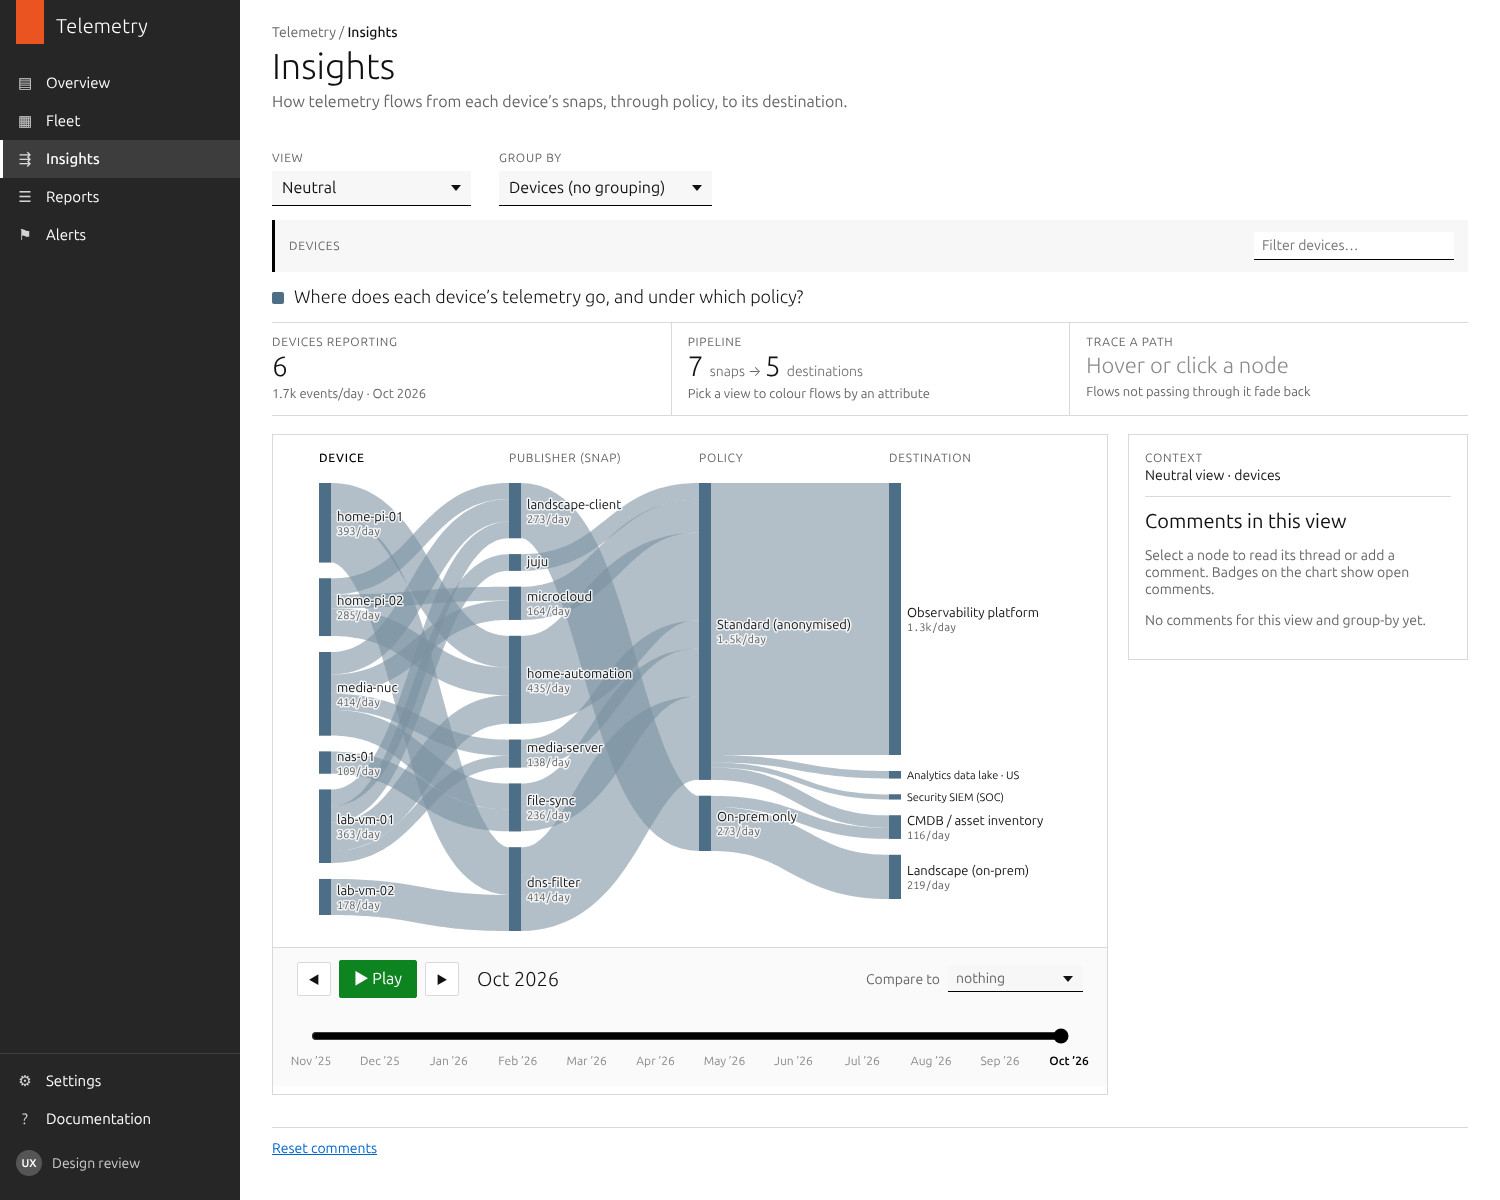
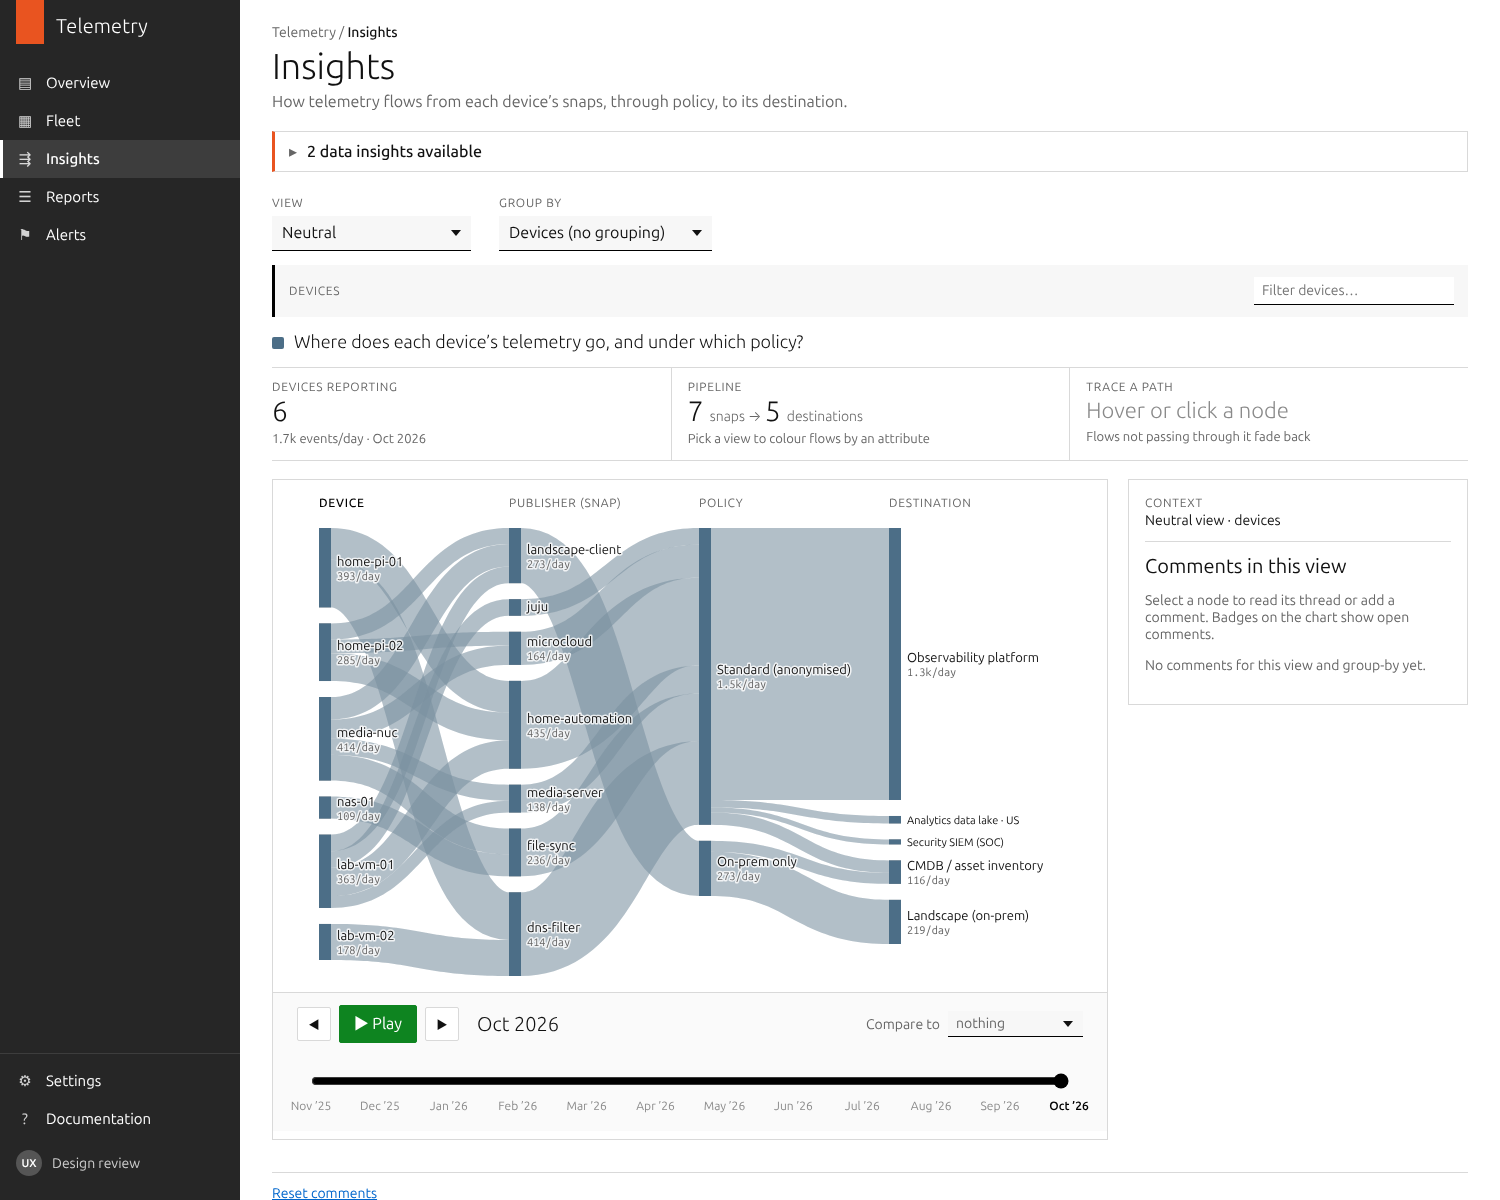
Add reporting status (pipe health) measured at the endpoint
New reported attribute, view and group-by: Reporting / Delayed /
Partially silent / Silent (online in Landscape) / Offline / Silent
(cause unknown). It is measured at the telemetry endpoint per device and
snap, with Landscape's online signal used to suggest a cause. Device
tooltips show the status and a cause hint, the top 20 ranks worst first,
the view has a 'not reporting normally' KPI with trend, and a new SRE
insight summarises devices whose telemetry isn't getting through.

The latest month is scripted so each status has an example, and factory
devices are partially silent (opcua-connector) during the Jun/Jul
incident. Generated from its own RNG: health, flows and volumes are
unchanged. snapd on-device buffering is deliberately not modelled.

Claude-Session: https://claude.ai/code/session_0156BKrAD5wHGfcWHmuamSMf

diff --git a/js/app.js b/js/app.js
@@ -60,11 +60,12 @@
   const ATTENTION = {
     health: { label: 'unhealthy devices (health 50 or below)', test: function (a) { return a.healthScore <= 50; } },
     lifecycle: { label: 'devices at lifecycle risk', test: function (a) { return a.lifecycle === 'software' || a.lifecycle === 'ending'; } },
-    energy: { label: 'idle devices still powered on', test: function (a) { return a.idle; } }
+    energy: { label: 'idle devices still powered on', test: function (a) { return a.idle; } },
+    reporting: { label: 'devices not reporting normally', test: function (a) { return a.reporting !== 'reporting'; } }
   };
   const LC_RISK = { software: 0, ending: 1, refresh: 2, service: 3, virtual: 4 };
   function rankLabel() {
-    return { health: 'lowest health', lifecycle: 'lifecycle risk', energy: 'idle first, then energy use' }[view().attr] || 'telemetry volume';
+    return { health: 'lowest health', lifecycle: 'lifecycle risk', energy: 'idle first, then energy use', reporting: 'reporting problems' }[view().attr] || 'telemetry volume';
   }
   // per-device summary for the latest month, honouring filters (ranking is frozen to this month,
   // so the top N doesn't reshuffle while scrubbing the timeline)
@@ -92,6 +93,7 @@
         if (v === 'health') return a.healthScore;
         if (v === 'lifecycle') return LC_RISK[a.lifecycle] * 1e9 - d.vol;
         if (v === 'energy') return (a.idle ? 0 : 1e9) - (a.energyKwh || 0);
+        if (v === 'reporting') return -TL.ATTRIBUTES.reporting.index[a.reporting] * 1e9 - d.vol; // worst status first
         return -d.vol;
       };
       ids.sort(function (x, y) { return score(sum[x]) - score(sum[y]); });
@@ -377,6 +379,12 @@
       Object.keys(agg.nodes).forEach(function (k) { const n = agg.nodes[k]; if (n.dim === 'publisher') pubs[k] = 1; if (n.dim === 'destination') dests[k] = 1; });
       items.push(kpi('Pipeline', Object.keys(pubs).length + ' <span class="p-kpi__unit">snaps → </span>' + Object.keys(dests).length + ' <span class="p-kpi__unit">destinations</span>',
         'Pick a view to colour flows by an attribute'));
+    } else if (view().attr === 'reporting' && !iso) {
+      const bad = counts._total - (counts.reporting || 0);
+      items.push(kpi('<span class="dot" style="background:' + TL.valueOf('reporting', 'silent').color + '"></span>Not reporting normally',
+        bad + ' <span class="p-kpi__unit">device' + (bad === 1 ? '' : 's') + ' of ' + counts._total.toLocaleString('en-GB') + '</span>',
+        '<span class="p-dist">' + bar + '</span>',
+        t.time ? sparkline(TL.MONTHS.map(function (_, m) { const c = deviceCounts(m, 'reporting'); return c._total - (c.reporting || 0); }), TL.valueOf('reporting', 'silent').color) : ''));
     } else if (view().attr === 'lifecycle' && !iso) {
       // the actionable number: devices that would be replaced for software reasons alone
       const sw = counts.software || 0, end = counts.ending || 0;
@@ -649,6 +657,22 @@
       return '<div><span class="dot" style="background:' + (v.color || '#bbb') + '"></span>' + esc(v.label) + ' · ' + S.pct(x, total) + '%</div>';
     }).join('');
   }
+  // Reporting status measured at the endpoint, with a cause hint from the Landscape cross-check
+  function hoursText(h) { return h >= 48 ? Math.round(h / 24) + ' days' : h + ' h'; }
+  function reportHtml(a) {
+    const info = a.reportInfo || { status: 'reporting', lastMin: 2 }, v = TL.valueOf('reporting', info.status);
+    const snap = info.snap ? TL.valueOf('publisher', info.snap).label : '';
+    const hint = {
+      reporting: 'Last received ' + (info.lastMin || 2) + ' min ago',
+      delayed: 'Arriving about ' + info.lagMin + ' min late: data is getting through, but something along the path is holding it up.',
+      partial: snap + ' silent for ' + hoursText(info.hours) + (info.cause ? ' (' + info.cause + ')' : '') + ' while the device’s other snaps report. Check that snap.',
+      silent: 'Silent for ' + hoursText(info.hours) + '. Landscape reports it online, so check snapd or the network path to the endpoint.',
+      offline: 'Offline for ' + hoursText(info.hours) + '. Landscape reports it offline: power or connectivity.',
+      unknown: 'Silent for ' + hoursText(info.hours) + '. Cause unknown: no landscape-client to cross-check.'
+    }[info.status];
+    return '<div class="tooltip__report"><span class="dot" style="background:' + v.color + '"></span><strong>' + esc(v.label) + '</strong>' +
+      '<span class="tooltip__reporthint">' + esc(hint) + '</span></div>';
+  }
   // Sustainability section of a device tooltip: lifecycle, then energy
   function sustainHtml(s) {
     const open = state.sustainOpen != null ? state.sustainOpen : (view().attr === 'lifecycle' || view().attr === 'energy');
@@ -692,7 +716,8 @@
       const d = TL.deviceAt(n.val, periodIndex());
       const a = d.attrs;
       const band = TL.valueOf('health', a.health);
-      body = '<div class="tooltip__health"><span class="dot" style="background:' + band.color + '"></span>Health <strong>' + a.healthScore + '</strong> <span class="tooltip__band">(' + band.label + ')</span></div>';
+      body = '<div class="tooltip__health"><span class="dot" style="background:' + band.color + '"></span>Health <strong>' + a.healthScore + '</strong> <span class="tooltip__band">(' + band.label + ')</span></div>' +
+        reportHtml(a);
       if (view().attr === 'health') {
         body += '<dl class="tooltip__parts">' + TL.HEALTH_COMPONENTS.map(function (c) {
           const v = Math.round(a.healthParts[c.id]);
@@ -749,6 +774,17 @@
     if (pay.length) out.push({ id: 'payment', audience: 'Compliance', title: 'Payment telemetry bypasses residency',
       text: n(nDev(pay)) + ' EU/UK devices send ' + fmt(sumOf(pay)) + ' events/day of payment-vault telemetry to the US data lake: rule R2 matches before the residency rules (R4, R5).',
       show: { view: 'sovereignty', groupBy: 'sovereignty', select: 'destination:lake-us' } });
+    // pipe health: telemetry not getting through (measured at the endpoint)
+    const stat = {}; A.forEach(function (a) { stat[a.reporting] = (stat[a.reporting] || 0) + 1; });
+    const notOk = A.length - (stat.reporting || 0);
+    if (notOk) {
+      const order = ['silent', 'offline', 'unknown', 'partial', 'delayed'], phrase = {
+        silent: 'silent while online in Landscape', offline: 'offline', unknown: 'silent (cause unknown)', partial: 'partially silent', delayed: 'delayed' };
+      const first = order.filter(function (k) { return stat[k]; })[0];
+      out.push({ id: 'reporting', audience: 'SRE', title: 'Telemetry isn’t getting through from ' + n(notOk) + ' device' + (notOk === 1 ? '' : 's'),
+        text: order.filter(function (k) { return stat[k]; }).map(function (k) { return n(stat[k]) + ' ' + phrase[k]; }).join(', ') + '.',
+        show: { view: 'reporting', groupBy: 'reporting', select: 'reporting:' + first } });
+    }
     // 3. Juju 2.9 health
     const j29 = A.filter(function (a) { return a.juju === '2.9'; }), rest = A.filter(function (a) { return a.juju !== '2.9'; });
     const avg = function (xs) { return xs.length ? Math.round(xs.reduce(function (p, a) { return p + a.healthScore; }, 0) / xs.length) : 0; };

diff --git a/js/data.js b/js/data.js
@@ -142,6 +142,15 @@ window.TL = window.TL || {};
   ATTRIBUTES.neutral = { label: 'Neutral', short: 'Neutral', values: [{ id: 'all', label: 'All telemetry', color: '#4C6E87' }] };
   ATTRIBUTES.health = { label: 'Health', short: 'Health', ordinal: true, values: HEALTH_BANDS };
   // Sustainability attributes (colours from the same palette family as health)
+  // Reporting status: measured at the telemetry endpoint per device (and per snap),
+  // with Landscape's online/offline signal used to suggest a cause. Worst last.
+  ATTRIBUTES.reporting = { label: 'Reporting status', short: 'Reporting', values: [
+    { id: 'reporting', label: 'Reporting', color: '#3E786C' },
+    { id: 'delayed', label: 'Delayed', color: '#A7A880' },
+    { id: 'partial', label: 'Partially silent', color: '#BC6D4C' },
+    { id: 'silent', label: 'Silent (online in Landscape)', color: '#AC4E2A' },
+    { id: 'offline', label: 'Offline', color: '#79331A' },
+    { id: 'unknown', label: 'Silent (cause unknown)', color: '#997B73' }] };
   ATTRIBUTES.lifecycle = { label: 'Lifecycle', short: 'Lifecycle', values: [
     { id: 'service', label: 'Can stay in service', color: '#3E786C' },
     { id: 'ending', label: 'Standard support ending', color: '#BC6D4C' },
@@ -437,6 +446,8 @@ window.TL = window.TL || {};
     a.neutral = 'all';
     const h = healthAt(d, a, m);
     a.healthScore = h.score; a.healthParts = h.parts; a.health = healthBand(h.score);
+    const rep = d.report ? d.report[m] : null;
+    a.reporting = rep ? rep.status : 'reporting'; a.reportInfo = rep;
     const su = sustainAt(d, a, m);
     a.lifecycle = su.cat;
     a.energyKwh = su.kwh != null && su.measuredBy ? su.kwh : null;
@@ -517,6 +528,37 @@ window.TL = window.TL || {};
     cache[m] = facts;
     return facts;
   }
+  // Reporting status per month (own RNG, so health, flows and comments are unchanged).
+  // Factory devices are partially silent in Jun/Jul 2026: opcua-connector was crash-looping.
+  DEVICES.forEach(function (d, i) {
+    const r = mulberry32(314159 * (i + 1));
+    d.report = MONTHS.map(function (_, m) {
+      if ((d.siteTrue || d.attrs.site) === 'factory' && (m === 7 || m === 8) && d.extras.apps.indexOf('plc') >= 0) {
+        return { status: 'partial', snap: 'plc', hours: m === 7 ? 30 + Math.round(r() * 60) : 120 + Math.round(r() * 200), cause: 'crash-looping' };
+      }
+      const weak = d.health && (d.health.policy != null); // neglected devices report less reliably
+      if (r() > (weak ? 0.22 : 0.06)) return { status: 'reporting', lastMin: 1 + Math.round(r() * 9) };
+      const kind = r();
+      if (kind < 0.4) return { status: 'delayed', lagMin: 20 + Math.round(r() * 70) };
+      const hours = 6 + Math.round(r() * 66);
+      if (kind < 0.62) {
+        const apps = d.extras.apps;
+        return { status: 'partial', snap: apps[Math.floor(r() * apps.length)], hours: hours };
+      }
+      if (!d.extras.landscape) return { status: 'unknown', hours: hours };
+      return { status: r() < 0.5 ? 'silent' : 'offline', hours: hours };
+    });
+  });
+  // the current month's issues are scripted so every status has a clear example
+  const NOW_ISSUES = {
+    'par-store-02': { status: 'silent', hours: 26 },
+    'sgp-dc-01': { status: 'offline', hours: 9 },
+    'nyc-cloud-02': { status: 'unknown', hours: 41 },
+    'fra-store-01': { status: 'partial', snap: 'shelfcam', hours: 18 },
+    'sfo-cloud-02': { status: 'delayed', lagMin: 45 }
+  };
+  DEVICES.forEach(function (d) { if (NOW_ISSUES[d.id]) d.report[MONTHS.length - 1] = NOW_ISSUES[d.id]; });
+
   // Environment is a manual tag; drawn from its own RNG so other data is unchanged
   DEVICES.forEach(function (d, i) {
     const r = mulberry32(130363 * (i + 1));
@@ -603,6 +645,7 @@ window.TL = window.TL || {};
   const VIEWS = [
     { id: 'neutral', attr: 'neutral', label: 'Neutral', question: 'Where does each device’s telemetry go, and under which policy?' },
     { id: 'health', attr: 'health', label: 'Device health', question: 'How healthy is each device, and where does telemetry from unhealthy devices go?' },
+    { id: 'reporting', attr: 'reporting', label: 'Reporting status', question: 'Which devices aren’t getting telemetry through, and why?' },
     { id: 'sovereignty', attr: 'sovereignty', label: 'Telemetry residency', question: 'Which residency rule does each device’s telemetry follow, and where does it end up?' },
     { id: 'confidential', attr: 'confidential', label: 'Confidential compute', question: 'Which devices run confidential VMs, and where does their payment telemetry go?' },
     { id: 'lifecycle', attr: 'lifecycle', label: 'Lifecycle', group: 'Sustainability', question: 'Which devices can stay in service, and which would be replaced for software reasons alone?' },
@@ -620,7 +663,7 @@ window.TL = window.TL || {};
   const GROUP_BY_MENU = [
     { id: 'device', label: 'Devices (no grouping)' },
     { group: 'Manual', items: ['site', 'region', 'environment', 'sovereignty'] },
-    { group: 'Reported', items: ['health', 'lifecycle', 'energy', 'confidential', 'release', 'type'] },
+    { group: 'Reported', items: ['health', 'reporting', 'lifecycle', 'energy', 'confidential', 'release', 'type'] },
     { group: 'Infrastructure', items: ['stack', 'juju', 'jaas', 'maas', 'microcloud'] }
   ];
   const GROUP_BY_LABELS = { health: 'Device health', stack: 'Full / partial stack', juju: 'Juju', jaas: 'JAAS', maas: 'MAAS', energy: 'Energy' };

diff --git a/index.html b/index.html
@@ -6,7 +6,7 @@
   <title>Insights · Telemetry</title>
   <link rel="preconnect" href="https://fonts.googleapis.com">
   <link rel="stylesheet" href="https://fonts.googleapis.com/css2?family=Ubuntu+Sans:wght@300;400;500;600&family=Ubuntu+Sans+Mono&display=swap">
-  <link rel="stylesheet" href="css/app.css?v=20261103f">
+  <link rel="stylesheet" href="css/app.css?v=20261103g">
 </head>
 <body>
 <div class="l-app">
@@ -96,9 +96,9 @@
 <div class="tooltip" id="tooltip" role="tooltip" hidden></div>
 <dialog class="p-modal" id="assign-dialog" aria-labelledby="assign-title"></dialog>
 
-<script src="js/data.js?v=20261103f"></script>
-<script src="js/sankey.js?v=20261103f"></script>
-<script src="js/comments.js?v=20261103f"></script>
-<script src="js/app.js?v=20261103f"></script>
+<script src="js/data.js?v=20261103g"></script>
+<script src="js/sankey.js?v=20261103g"></script>
+<script src="js/comments.js?v=20261103g"></script>
+<script src="js/app.js?v=20261103g"></script>
 </body>
 </html>

diff --git a/css/app.css b/css/app.css
@@ -375,3 +375,6 @@ button, input, select, textarea { font: inherit; color: inherit; }
 @media (max-width: 760px) {
   .p-insights__item { grid-template-columns: 1fr; }
 }
+.tooltip__report { margin-top: 3px; display: grid; grid-template-columns: auto 1fr; column-gap: 0; }
+.tooltip__report strong { display: inline; font-weight: 600; }
+.tooltip__reporthint { grid-column: 2; color: #ccc; font-size: .75rem; line-height: 1.4; max-width: 260px; }

diff --git a/CLAUDE.md b/CLAUDE.md
@@ -34,7 +34,7 @@ Prototype of the **Insights** page (Telemetry product): a single-page Sankey. Se
 ## Sankey rules agreed with the user
 - Columns are fixed: **Device → Publisher → Policy → Destination**. Only column 1 changes.
 - A **view** colours devices (and their flows end to end) by one attribute, e.g. Juju version. Views never change columns.
-- View selector is a dropdown starting on **Neutral** (one flow colour): Neutral · Device health · Telemetry residency · Confidential compute · Sustainability ▸ (Lifecycle, Energy) · Canonical infrastructure ▸ (Full/partial stack, Juju, JAAS, MAAS, MicroCloud).
+- View selector is a dropdown starting on **Neutral** (one flow colour): Neutral · Device health · Reporting status · Telemetry residency · Confidential compute · Sustainability ▸ (Lifecycle, Energy) · Canonical infrastructure ▸ (Full/partial stack, Juju, JAAS, MAAS, MicroCloud).
 - No intro/description text and no "synthetic data" note under the page header.
 - Group-by dropdown is categorised by attribute provenance: Manual (Site, Region, Environment, Telemetry residency) · Reported (Device health, Lifecycle, Energy, Confidential compute, Ubuntu release, Device type) · Infrastructure (Full/partial stack, Juju, JAAS, MAAS, MicroCloud). Site is a manually assigned label, not reported by devices.
 - Manual keys (Site, Environment) can be Unassigned; a pinned device tooltip offers an "Assign" link that opens a modal with an autocomplete over existing values (incl. near matches) that also allows creating a new value, e.g. "factory2" (Site suggested from hostname). New values become real values for the key. Saved in localStorage; "Reset assignments" footer link appears once something is assigned.
@@ -43,9 +43,15 @@ Prototype of the **Insights** page (Telemetry product): a single-page Sankey. Se
 - No snapd / telemetry endpoint markers in the chart (removed at the user's request).
 - Columns top-aligned (top stream horizontal, others rise into it); flows fairly transparent.
 
+## Reporting status (pipe health)
+- Measured at the telemetry endpoint per device and per snap (endpoint knows the device; it can't see why). Cause hinted via Landscape online/offline cross-check (only for devices with landscape-client).
+- Statuses: Reporting · Delayed · Partially silent (some snaps) · Silent (online in Landscape) · Offline · Silent (cause unknown). View + Reported group-by + tooltip line with hint + SRE insight.
+- Do NOT claim snapd queues/buffers telemetry: that's an unconfirmed design question for the snapd/telemetry engineers.
+- Latest month scripted (par-store-02, sgp-dc-01, nyc-cloud-02, fra-store-01, sfo-cloud-02); factory devices partially silent (opcua-connector) in Jun/Jul 2026.
+
 ## Data insights
-- Strip under the header, collapsed by default with heading "N data insights available"; computed from the whole fleet for the timeline month (6 on mid, 2 on hobby).
-- Each insight: Vanilla-style badge for audience (Compliance / Platform / Sustainability), title, one-line evidence, "Show me" (sets view + group-by, clears filters, selects node so its comments open).
+- Strip under the header, collapsed by default with heading "N data insights available"; computed from the whole fleet for the timeline month (7 on mid, 2 on hobby).
+- Each insight: Vanilla-style badge for audience (Compliance / SRE / Platform / Sustainability), title, one-line evidence, "Show me" (sets view + group-by, clears filters, selects node so its comments open).
 - Compliance insights are framed as rule conflicts (R4/R5 before R6 redaction; R2 before residency), not zone-crossing flags.
 
 ## Fleet size ladder

diff --git a/README.md b/README.md
@@ -32,16 +32,41 @@ It's a single page with every capability switched on:
 
 **Reset comments** at the bottom of the page restores the seeded comments.
 
+## Reporting status (pipe health)
+
+Reporting status is measured at the **telemetry endpoint**, per device and per snap. The endpoint knows which device each stream comes from. It can't see *why* a device is silent, so Landscape's online/offline signal is used to suggest a cause. Whether snapd buffers telemetry on the device isn't modelled: that's an open design question.
+
+| Status | What the endpoint sees | Tooltip hint |
+|---|---|---|
+| Reporting | Data received recently | Last received N min ago |
+| Delayed | Data arriving late | Something along the path is holding it up |
+| Partially silent | Some snaps silent, others reporting | That snap isn't publishing: check it |
+| Silent (online in Landscape) | Nothing received; Landscape says online | Check snapd or the network path |
+| Offline | Nothing received; Landscape says offline | Power or connectivity |
+| Silent (cause unknown) | Nothing received; no landscape-client | Can't cross-check |
+
+**Where it appears:**
+- a **Reporting status** view and group-by (under Reported);
+- a status line with its cause hint in every device tooltip;
+- worst-first ranking in the top 20;
+- an **SRE** insight: "Telemetry isn't getting through from N devices".
+
+**The data:**
+- **The latest month is scripted** so each status has an example: `par-store-02` silent, `sgp-dc-01` offline, `nyc-cloud-02` cause unknown, `fra-store-01` with `shelf-vision` silent, `sfo-cloud-02` delayed.
+- **It follows the incident:** in June and July, factory devices are partially silent because `opcua-connector` was crash-looping.
+- **Other data is unchanged:** reporting status is generated from its own randomness, so health, flows and volumes are as before.
+
 ## Data insights
 
 A strip under the page title shows **"N data insights available"**, collapsed by default. The insights are calculated from the whole fleet for the month on the timeline, so the count varies by fleet and month.
 
-When expanded, each insight shows an audience badge (Compliance, Platform or Sustainability, using the Vanilla badge pattern), one line of evidence, and a **Show me** button. The button sets the view and group-by that make the insight visible, clears filters, and selects the node so its comment thread opens.
+When expanded, each insight shows an audience badge (Compliance, SRE, Platform or Sustainability, using the Vanilla badge pattern), one line of evidence, and a **Show me** button. The button sets the view and group-by that make the insight visible, clears filters, and selects the node so its comment thread opens.
 
 | Insight | Badge | Show me |
 |---|---|---|
 | Residency rules switch off PII redaction: R4/R5 match before R6 for `pos-terminal` and `shelf-vision` | Compliance | Telemetry residency, `pos-terminal` |
 | Payment telemetry bypasses residency: R2 matches before R4/R5 | Compliance | Telemetry residency, US data lake |
+| Telemetry isn't getting through from N devices | SRE | Reporting status by status, the worst status present |
 | Juju 2.9 devices are the least healthy | Platform | Device health by Juju, Juju 2.9 |
 | Devices could be replaced for software reasons alone | Sustainability | Lifecycle, support ending |
 | Idle devices are still powered on (measured devices only) | Sustainability | Energy by Site, the site with the most idle energy |
